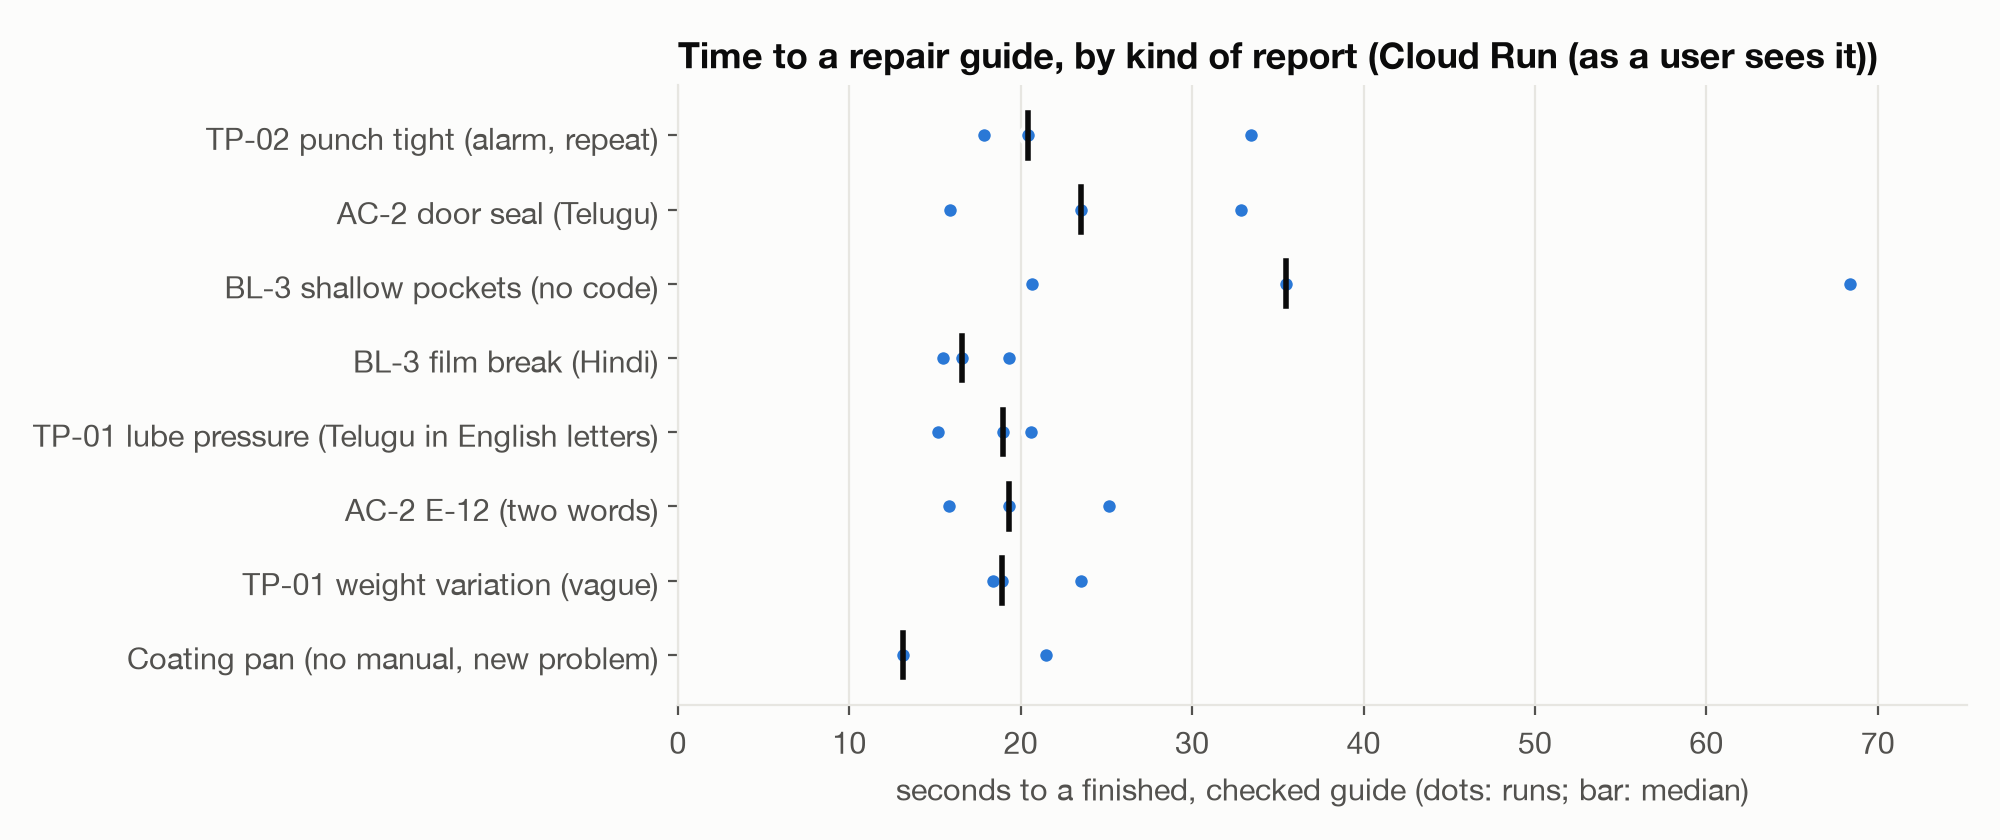
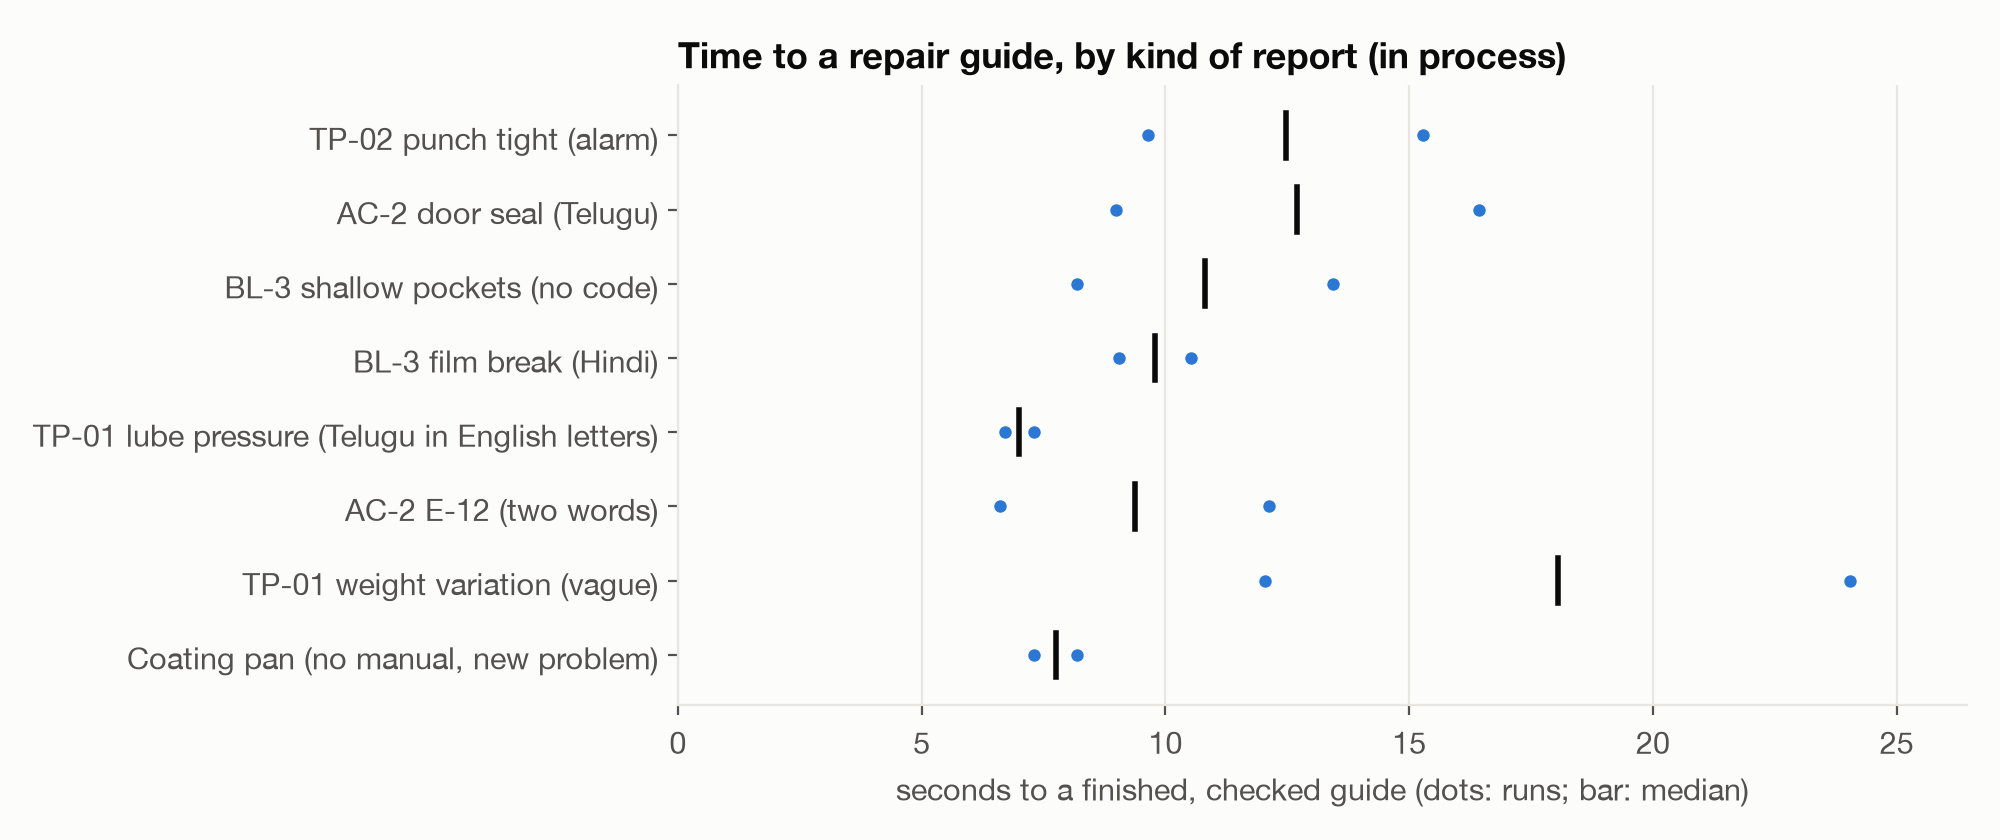
Update the README's performance numbers for Gemini 3.1 Flash-Lite
Re-ran the in-process benchmark, the code-check benchmark and the evaluation on the
new model and redrew the charts. A table now leads the section: 9.3 s median to a
checked guide, about $0.008 a guide with its translation, about $0.01 a spoken
report, 13 of 14 repeats recognised with 0 of 11 false alarms, 333 of 333 planted
faults caught. The Cloud Run load chart is left out until it is re-measured on the
deployed new model; eight guides drafted at once on the app are in the table.

diff --git a/README.md b/README.md
@@ -29,10 +29,25 @@ said" is enough; the app asks only what the guide can't tell it) and it is saved
 memory. QA then does the line clearance and releases the machine to production.
 
 Voice is a live conversation on Gemini Live (`gemini-3.8-live`): it starts answering in
-the manager's language about 2 seconds after they stop talking, and the manager can talk
-over it.
+the manager's language within about 2 seconds of them stopping (under one second in a
+direct test), and the manager can talk over it.
 
 ## How it performs
+
+Measured 14 Oct 2026 with `gemini-3.1-flash-lite` (`make benchmark`, `make eval`):
+
+| What | Result |
+|---|---|
+| Time to a finished, checked repair guide | **9.3 s** median, 18.3 s p95 (16 of 16 drafted) |
+| Eight managers drafting at the same moment | 8 of 8 guides, the slowest in 14.5 s, no errors |
+| Gemini cost per guide, with its Telugu and Hindi translation | **about $0.008** (under ₹1) |
+| A spoken breakdown report on Gemini Live | about $0.01; the reply starts under a second after the manager stops |
+| Right machine, alarm code and manual found | 16 of 16 |
+| Repair steps citing a manual page or a past fix | 101 of 112 (the rest are marked "general practice") |
+| Recognising a repeat breakdown | 13 of 14 right, **0 of 11 false alarms** (0 of 6 look-alikes) |
+| Machine with no manual given another machine's manual | 0 of 7 (7 of 7 by search score alone) |
+| Faults planted in guides and translations, caught by code | **333 of 333** |
+| Part numbers Gemini alone gives that exist in the store | 0 of 28; PlantMemory's come only from the store |
 
 ![Where the time goes](docs/benchmark/latency_steps.png)
 
@@ -41,18 +56,13 @@ the manuals side by side, then writing the guide and checking every line in code
 
 ![Time by kind of report](docs/benchmark/latency_cases.png)
 
-Time to a finished, checked guide on Cloud Run for the kinds of reports a manager gives:
-an alarm code, Telugu, Hindi, a two-word report, and a machine with no manual.
+Time to a finished, checked guide for the kinds of reports a manager gives: an alarm
+code, Telugu, Hindi, a two-word report, a vague one, and a machine with no manual.
 
 ![Gemini alone vs PlantMemory](docs/benchmark/plain_vs_plantmemory.png)
 
 The same breakdowns, the same model: Gemini on its own invents part numbers and
 settings; PlantMemory's parts come from the store and its values from cited sources.
-
-![Managers drafting at the same time](docs/benchmark/load.png)
-
-Several managers drafting at once: Cloud Run scales out and guides still arrive in
-about the same time.
 
 Built for the Google Cloud AI Builder Cup (APAC) with Gemini, the Agent Development Kit,
 Firestore vector search and Cloud Run.
